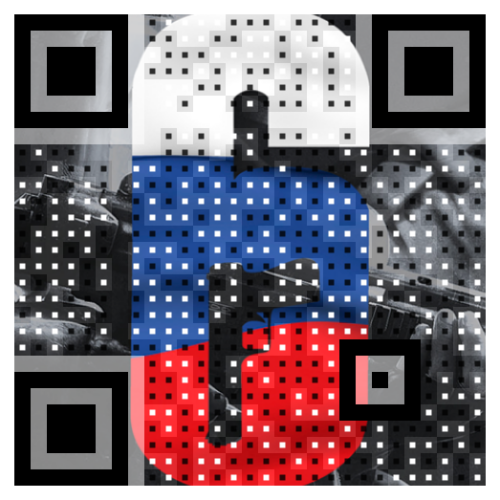
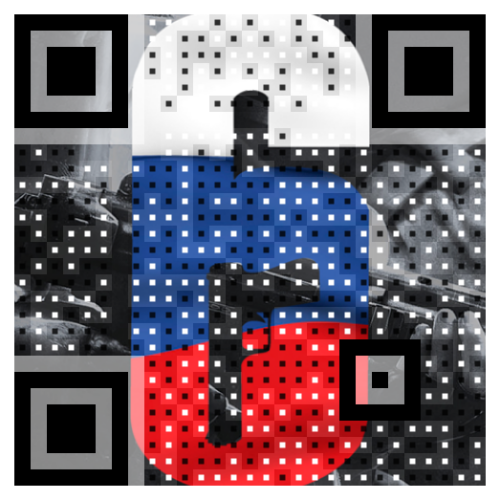
fix typings

diff --git a/awesome-qr-node.js b/awesome-qr-node.js
@@ -1498,8 +1498,6 @@ AwesomeQRCode.prototype.clear = function () {
     this._oDrawing.clear();
 };
 
-AwesomeQRCode.CorrectLevel = QRErrorCorrectLevel;
-
 function getAverageRGB(imgSrc) {
     var imgEl = new Image();
     imgEl.src = imgSrc;
@@ -1554,3 +1552,4 @@ function getAverageRGB(imgSrc) {
 }
 
 module.exports.AwesomeQRCode = AwesomeQRCode;
+module.exports.QRErrorCorrectLevel = QRErrorCorrectLevel;

diff --git a/start.js b/start.js
@@ -1,12 +1,12 @@
 let AwesomeQR = require('./awesome-qr-node');
 var fs = require('fs');
 
-new AwesomeQR().create({
+new AwesomeQR.AwesomeQRCode().create({
     text: 'https://github.com/Rainbow6-RUSSIA',
     size: 500,
 
     backgroundImage: './assets/r6rus.png',
-
+    correcorrectLevel: AwesomeQR.QRErrorCorrectLevel.H,
     margin: 15,
     typeNumber: 4,
     colorDark: "rgba(0, 0, 0, 0.8)",
